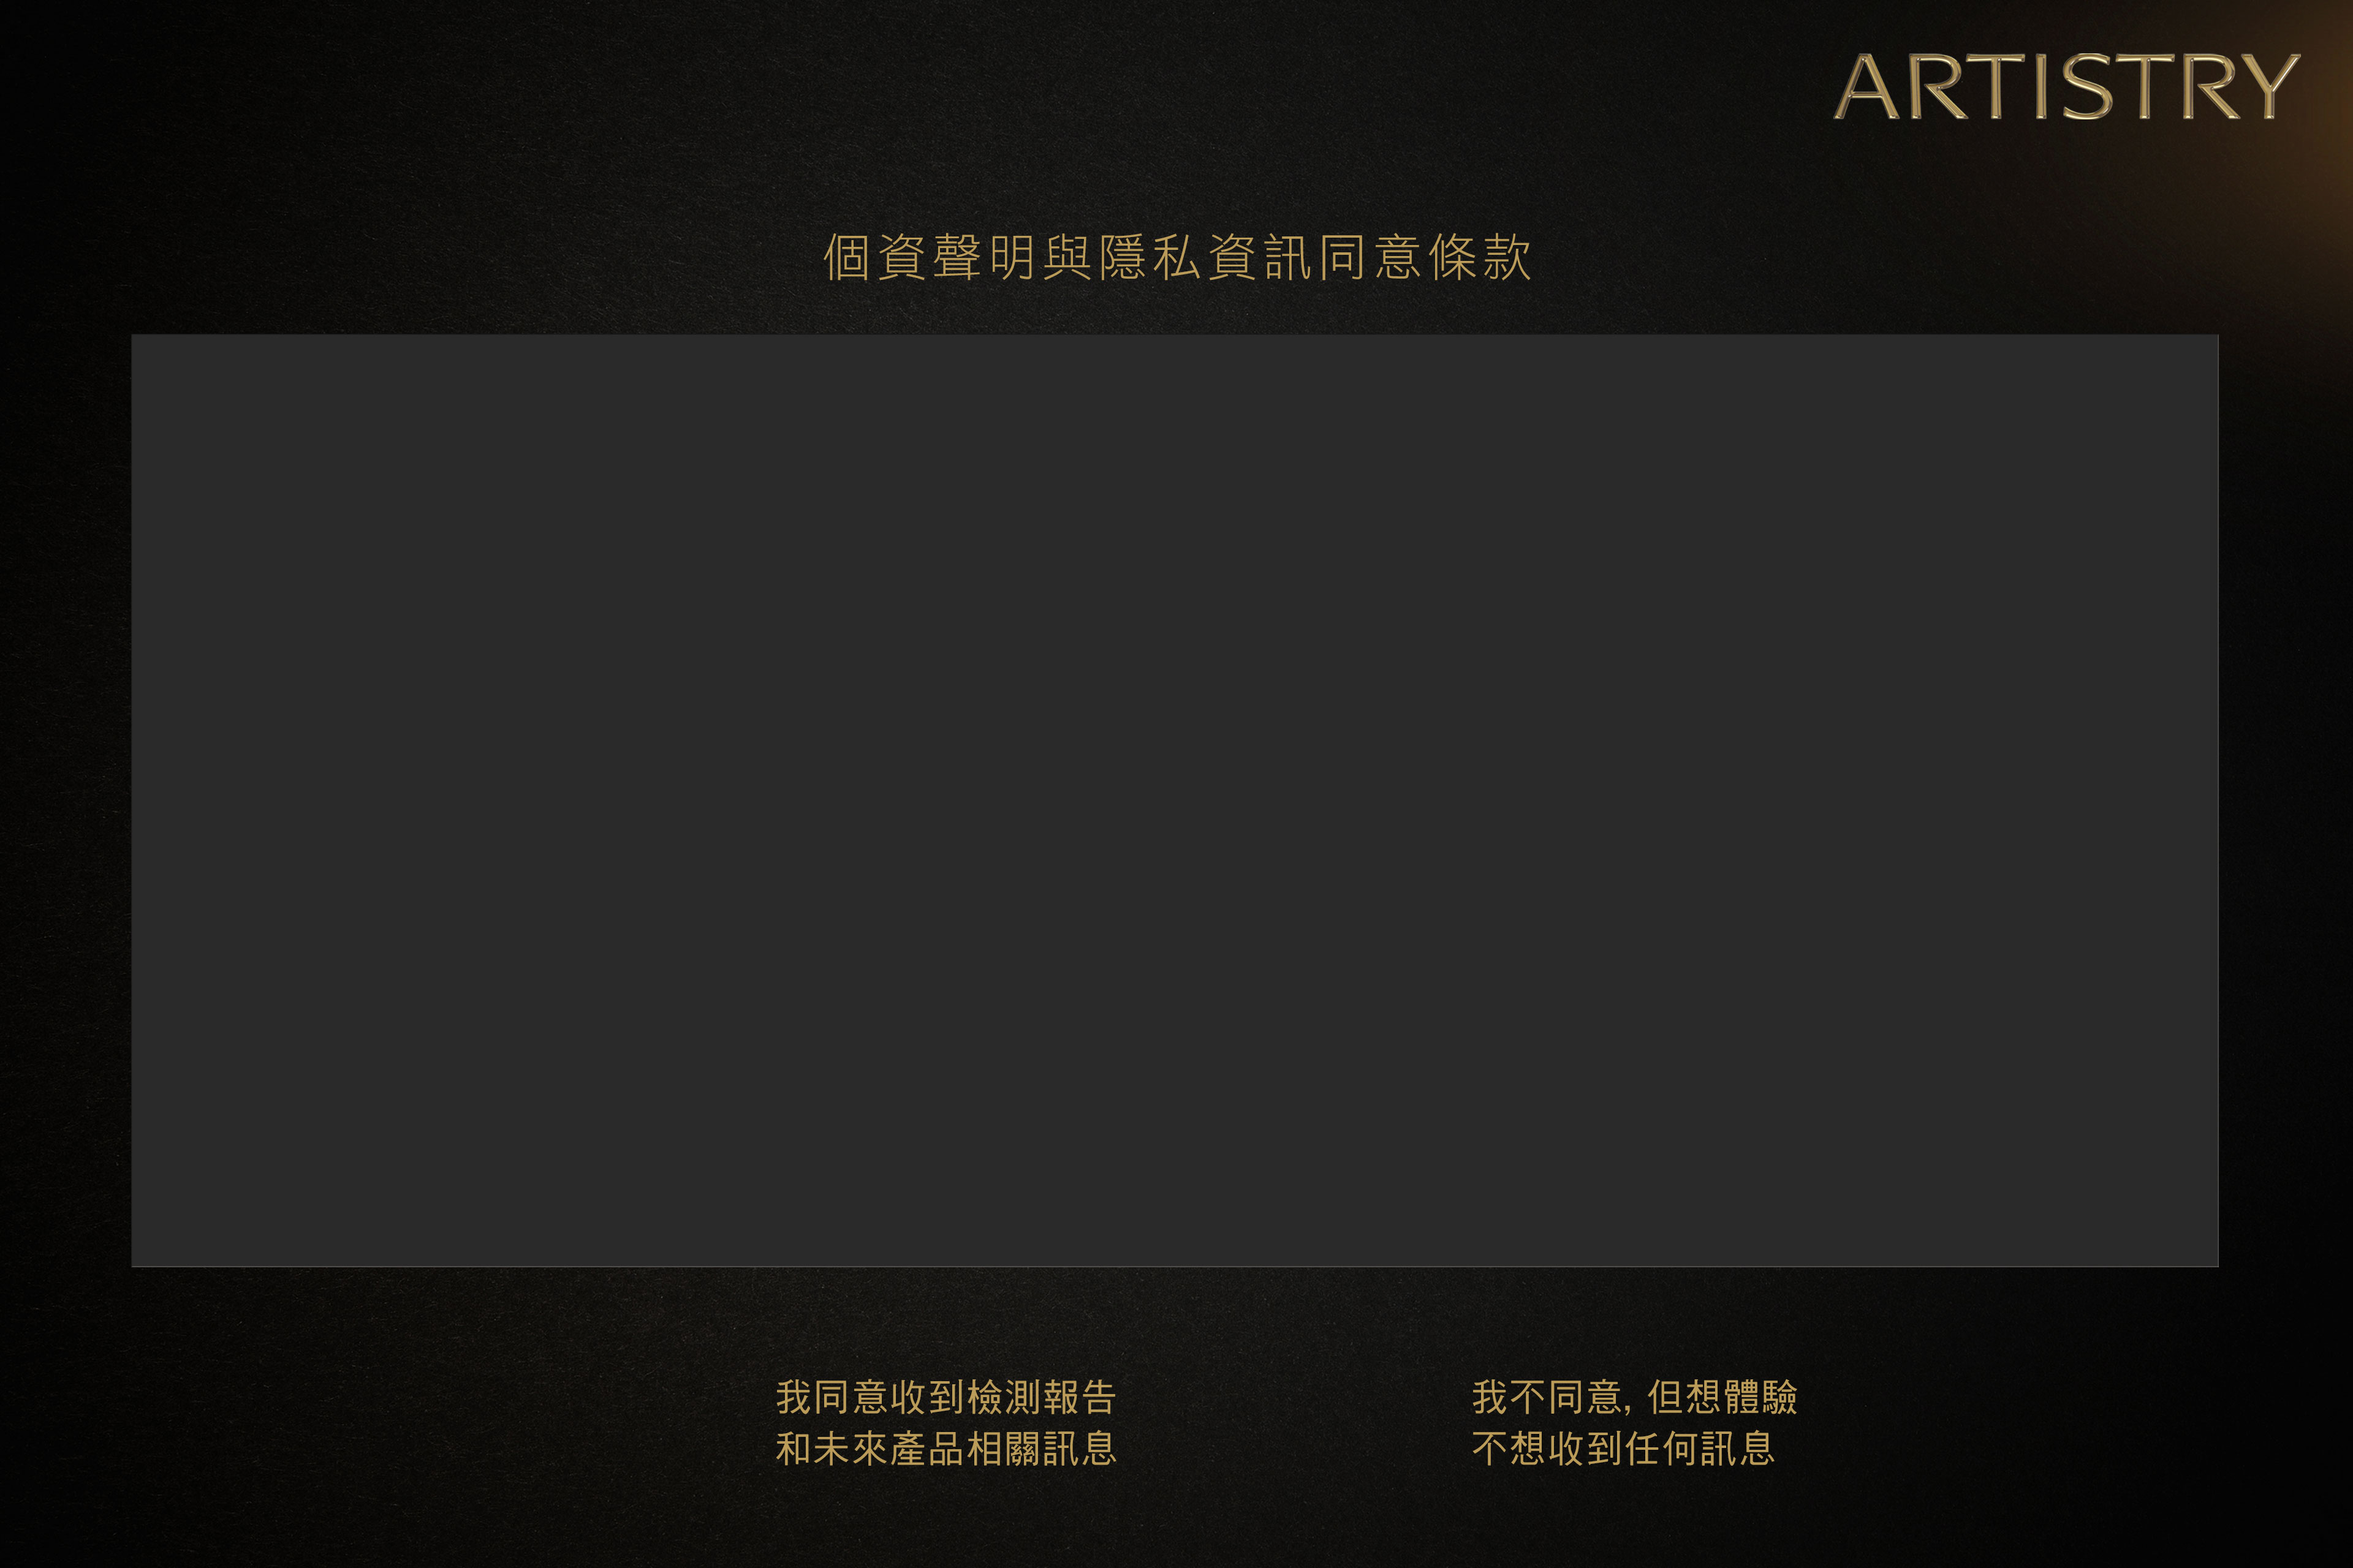
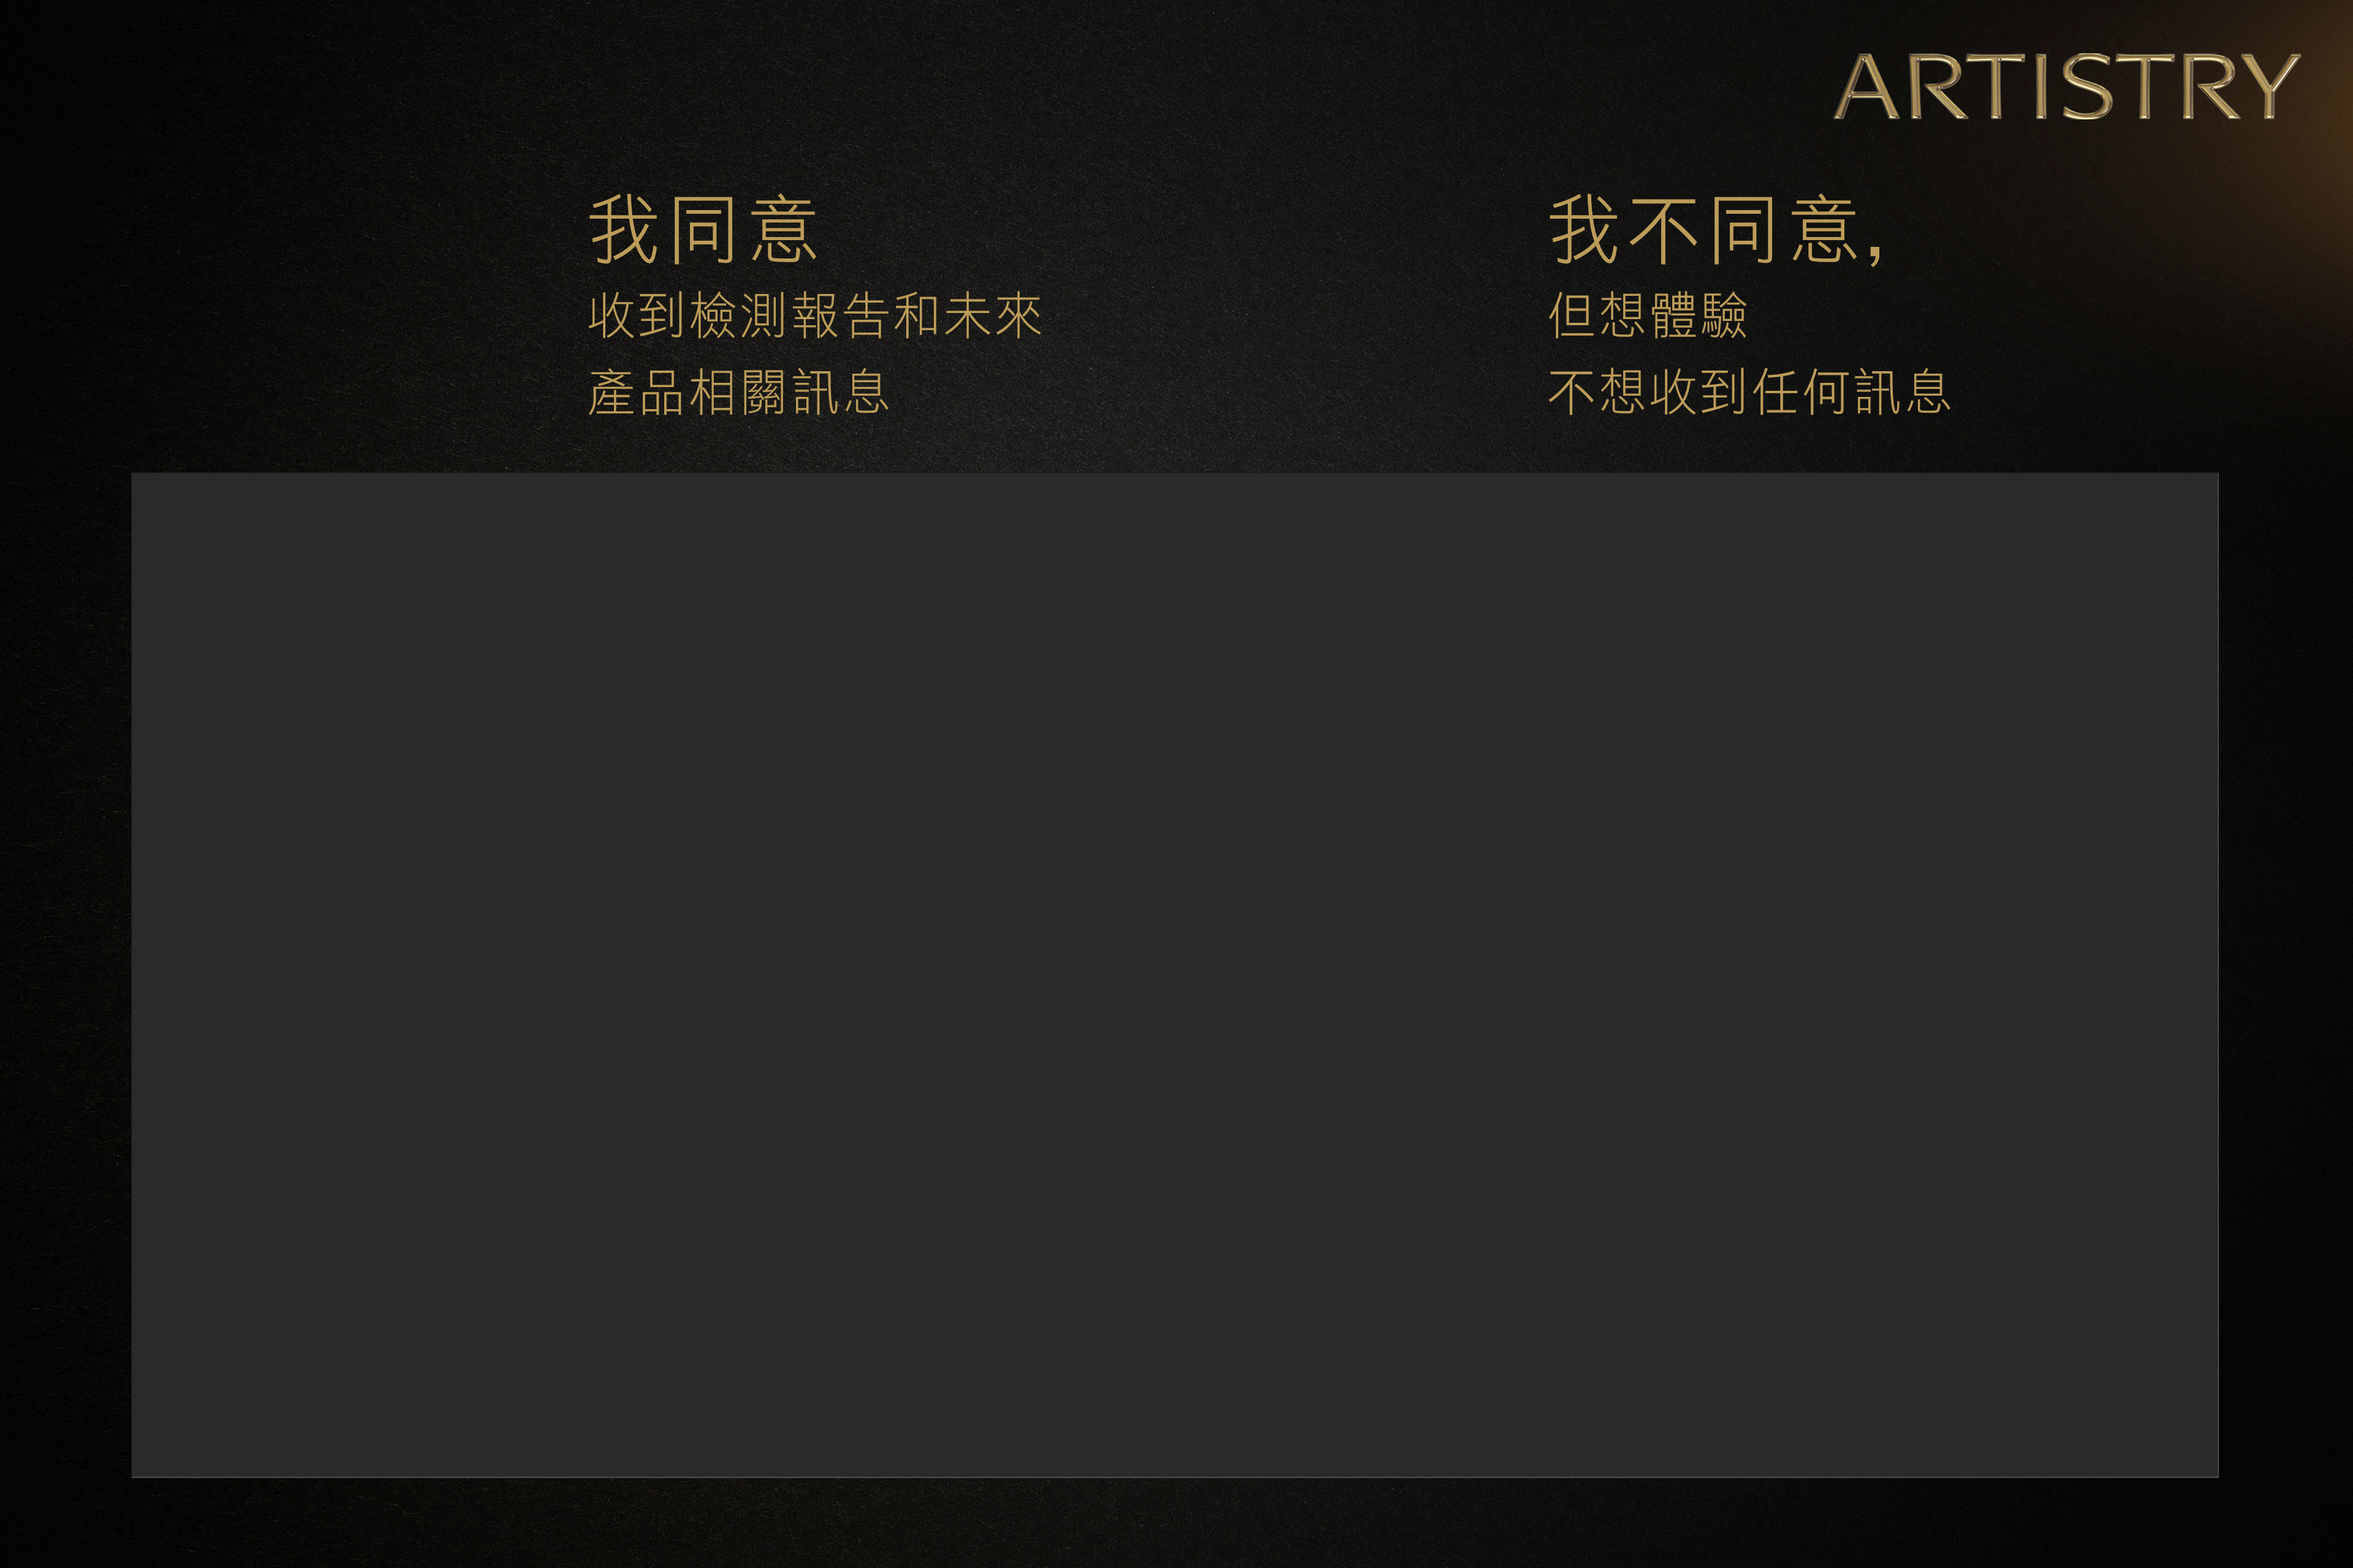
1124

Changed region(s): [[0.0312, 0.7812, 0.9688, 0.9688], [0.0312, 0.125, 0.9688, 0.3125]]

diff --git a/app/css/layouts/_mobile.scss b/app/css/layouts/_mobile.scss
@@ -32,16 +32,32 @@
 			text-decoration: none;
 
 			&:after{
+				transition: transform 0.3s linear 0s;
 				@include Item(84, 84, -11, 0, 371, 0, 391);
 				content: '';
 				background: url(../img/collapse-btn.png) no-repeat center/cover;
 			}
 		}
+		&.in + ul{
+			height: auto;
+			min-height: 5em;
+			opacity: 1;
+			margin-top: lp(87, 640);
+			transition: margin-top 0s linear 0s, height 0s linear 0s, opacity 0.25s linear 0s;
+		}
+		&.in{
+			a:after{
+				transform: rotateX(-180deg);
+			}
+		}
 	}
 	ul{
 		padding: lp(20, 640);
-		margin-top: lp(87, 640);
 		margin-left: lp(77, 640);
+		margin-top: 0;
+		opacity: 0;
+		height: 0;
+		transition: height 0s linear 0.25s, opacity 0.25s linear 0s;
 		li{
 			line-height: 1em;
 			list-style: none;

diff --git a/app/css/layouts/_step5.scss b/app/css/layouts/_step5.scss
@@ -1,6 +1,6 @@
 #step5{
 	.terms{
-		@include Item(3400, 1520, 550, 0, 224, 0);
+		@include Item(3407, 1642, 771, 0, 214, 0);
 
 		article{
 			@include SubItem();
@@ -19,10 +19,10 @@
 	}
 
 	.agree{
-		@include Item(296, 275, 2173, 0, 942, 0);
+		@include Item(296, 275, 354, 0, 578, 0);
 	}
 	.disagree{
-		@include Item(296, 275, 2173, 0, 2082, 0);
+		@include Item(296, 275, 354, 0, 2149, 0);
 	}
 	.agree, .disagree{
 		figure{

diff --git a/app/step2.html b/app/step2.html
@@ -40,6 +40,11 @@
         <figure class="background">
           <img data-src="img/step-2.jpg">
         </figure>
+
+        <a id="idonthave" href="step3.html">
+            <img src="img/idonhave.png">
+            <img class="hover" src="img/idonhave-hover.png">
+        </a>
       </section>
       <!--./step2-->
       

diff --git a/app/css/layouts/_step2.scss b/app/css/layouts/_step2.scss
@@ -1,0 +1,17 @@
+#step2{
+	#idonthave{
+		@include Item(943, 176, 2193, 0, 2766, 0);
+		img{
+			@include SubItem();
+		}
+		.hover{
+			opacity: 0;
+			transition-duration: 0.25s;
+		}
+		&:hover{			
+			.hover{
+				opacity: 1;
+			}
+		}
+	}
+}

diff --git a/app/css/main.scss b/app/css/main.scss
@@ -14,6 +14,7 @@ $icon-font-path: '../fonts/';
 @import "layouts/footer";
 @import "layouts/index";
 @import "layouts/step1";
+@import "layouts/step2";
 @import "layouts/step3";
 @import "layouts/step4";
 @import "layouts/step5";

diff --git a/app/js/mobile.js b/app/js/mobile.js
@@ -6,5 +6,7 @@
 	eqeqeq, no-extend-native, quotes , no-inner-declarations*/
 /*global app, $ */
 app.partial.mobile = function(page){
-
+	$('.collapse-btn').on('click', function(){
+		$(this).toggleClass('in');
+	});
 };

diff --git a/app/js/step4.js b/app/js/step4.js
@@ -13,7 +13,7 @@ app.partial.step4 = function(page){
 	});
 	// $(page).on('page:in', function(e){
 		timeout = setTimeout(function(){
-			goto('step5');
+			// goto('step5');
 		}, 5000);
 	// });
 };

diff --git a/app/css/layouts/_step4.scss b/app/css/layouts/_step4.scss
@@ -1,6 +1,6 @@
 #step4{
 	.gohome{
-		@include Item(1088, 203, 2179, 0, 2766, 0);
+		@include Item(183, 182, 2256, 0, 124, 0);
 	}
 	.name{
 		@include Item(1500, 203, 865, 0, 1300, 0);
